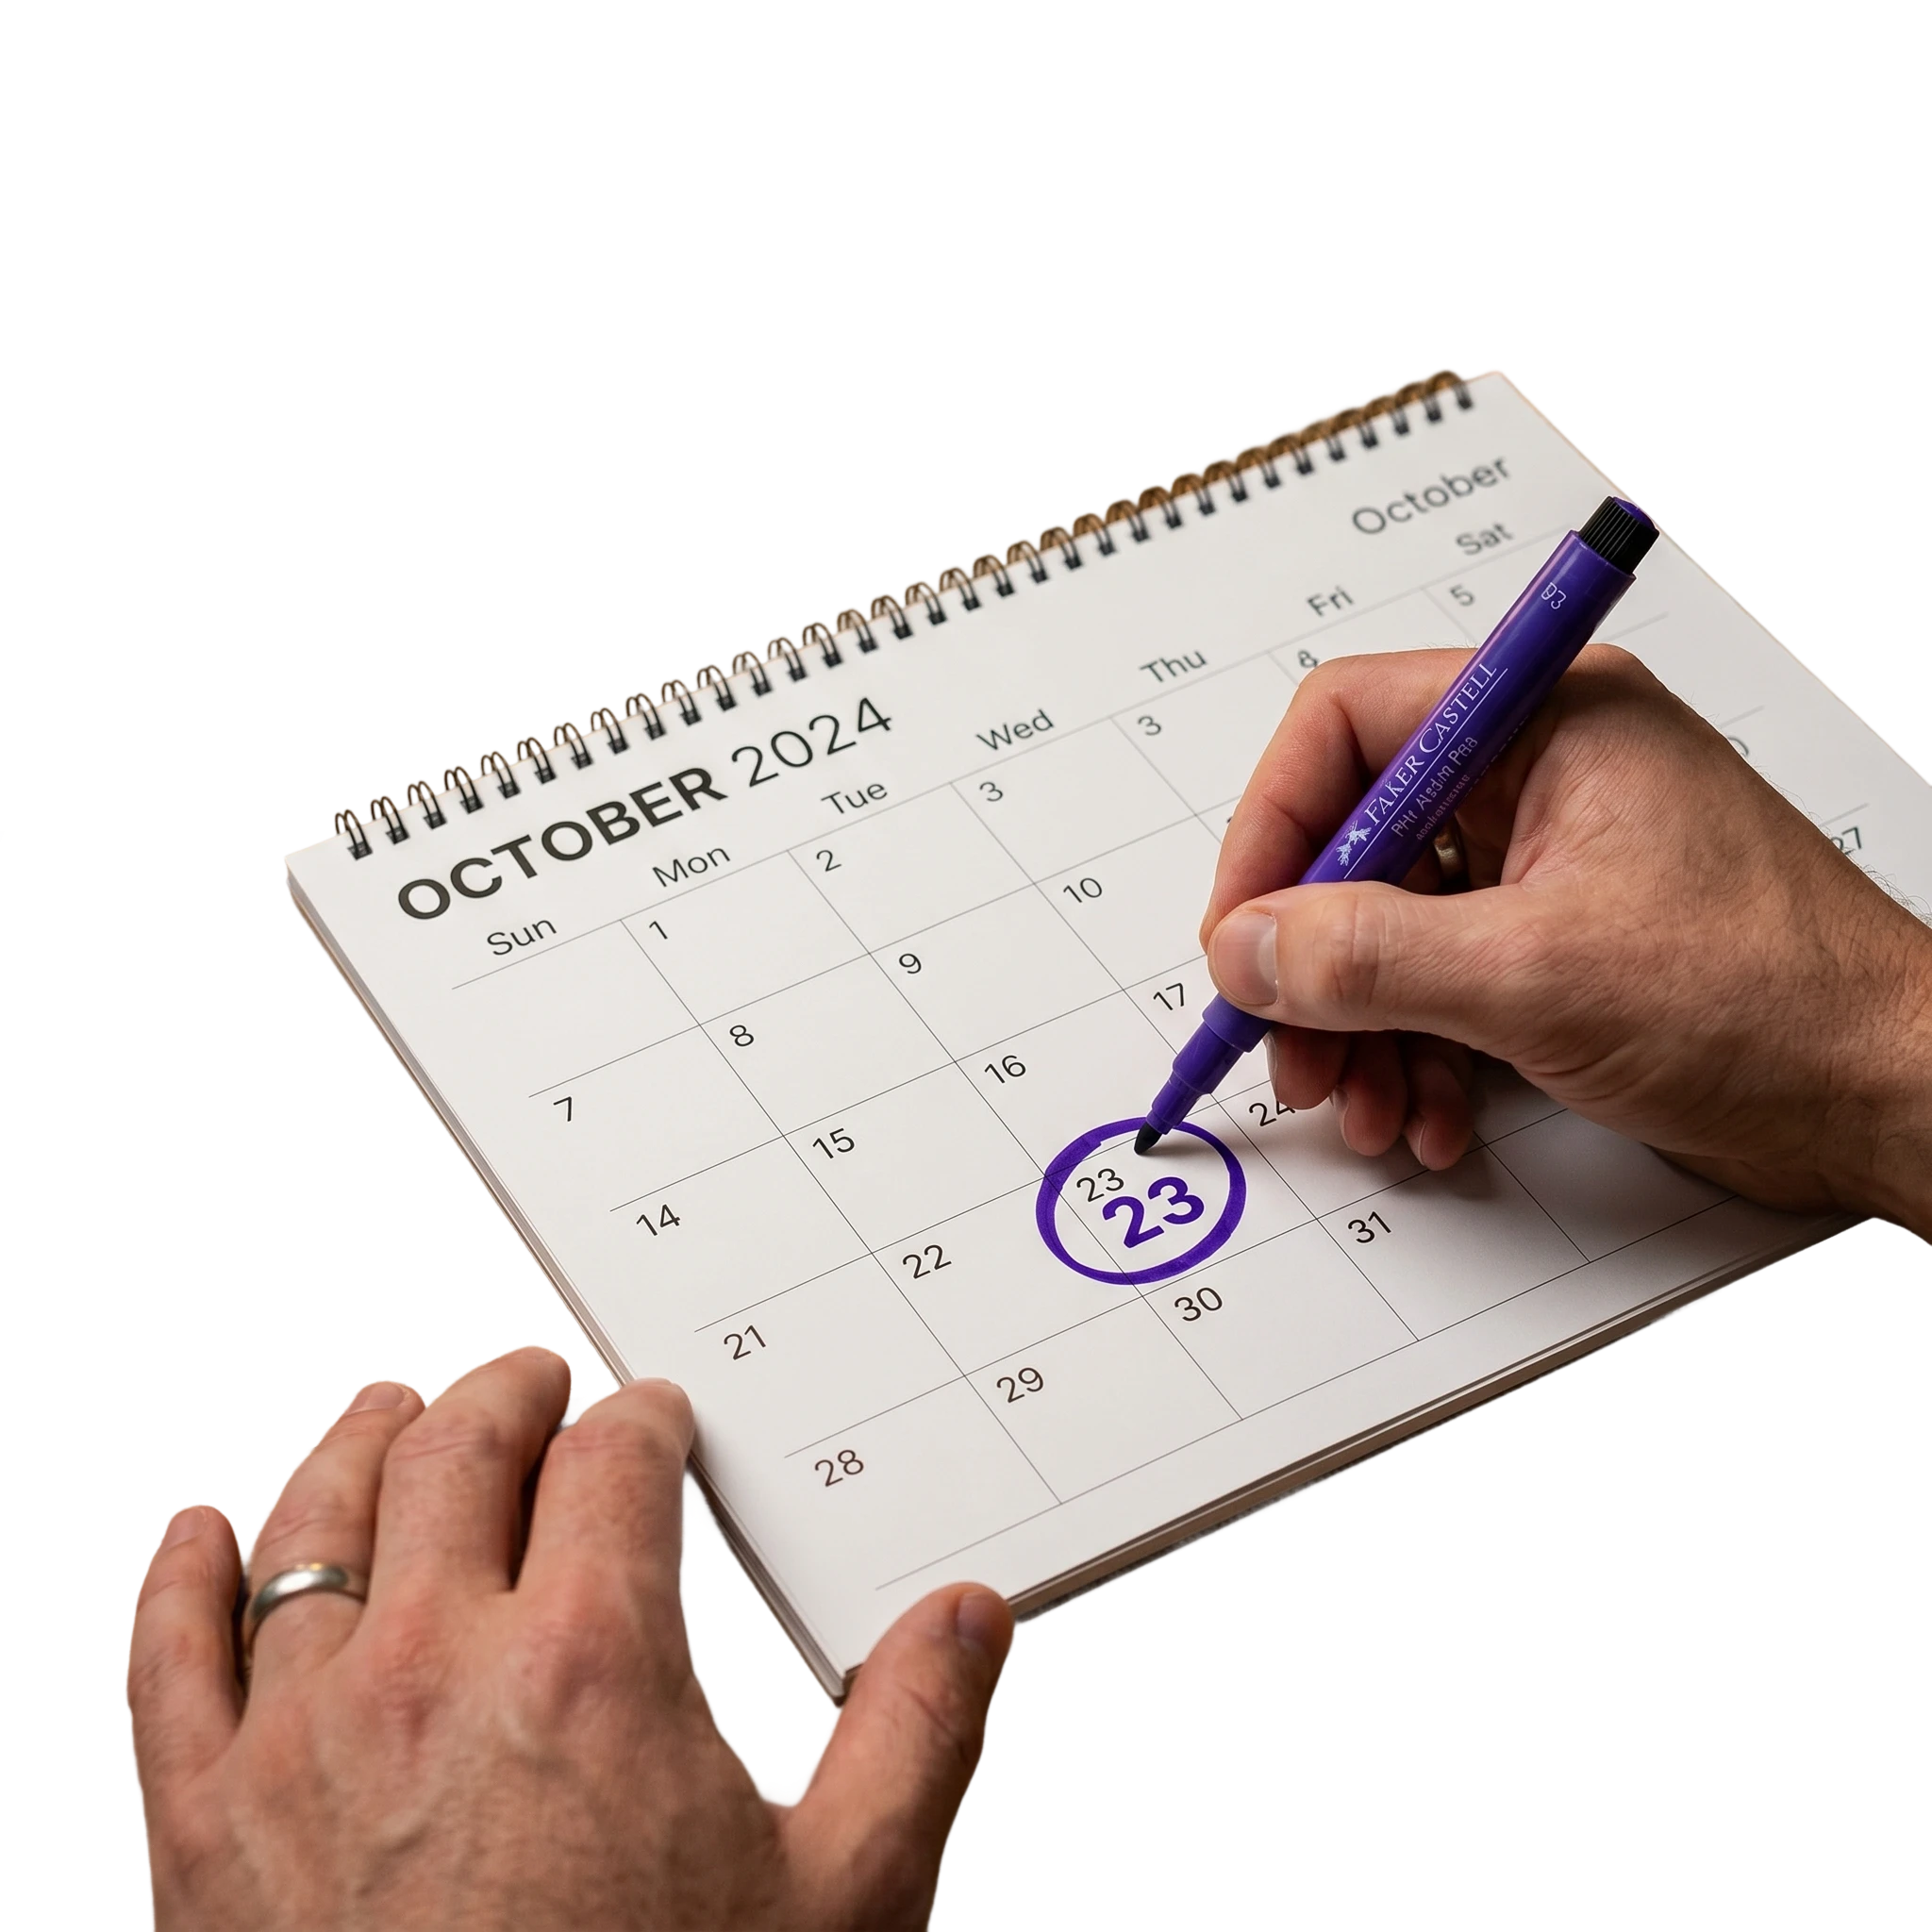
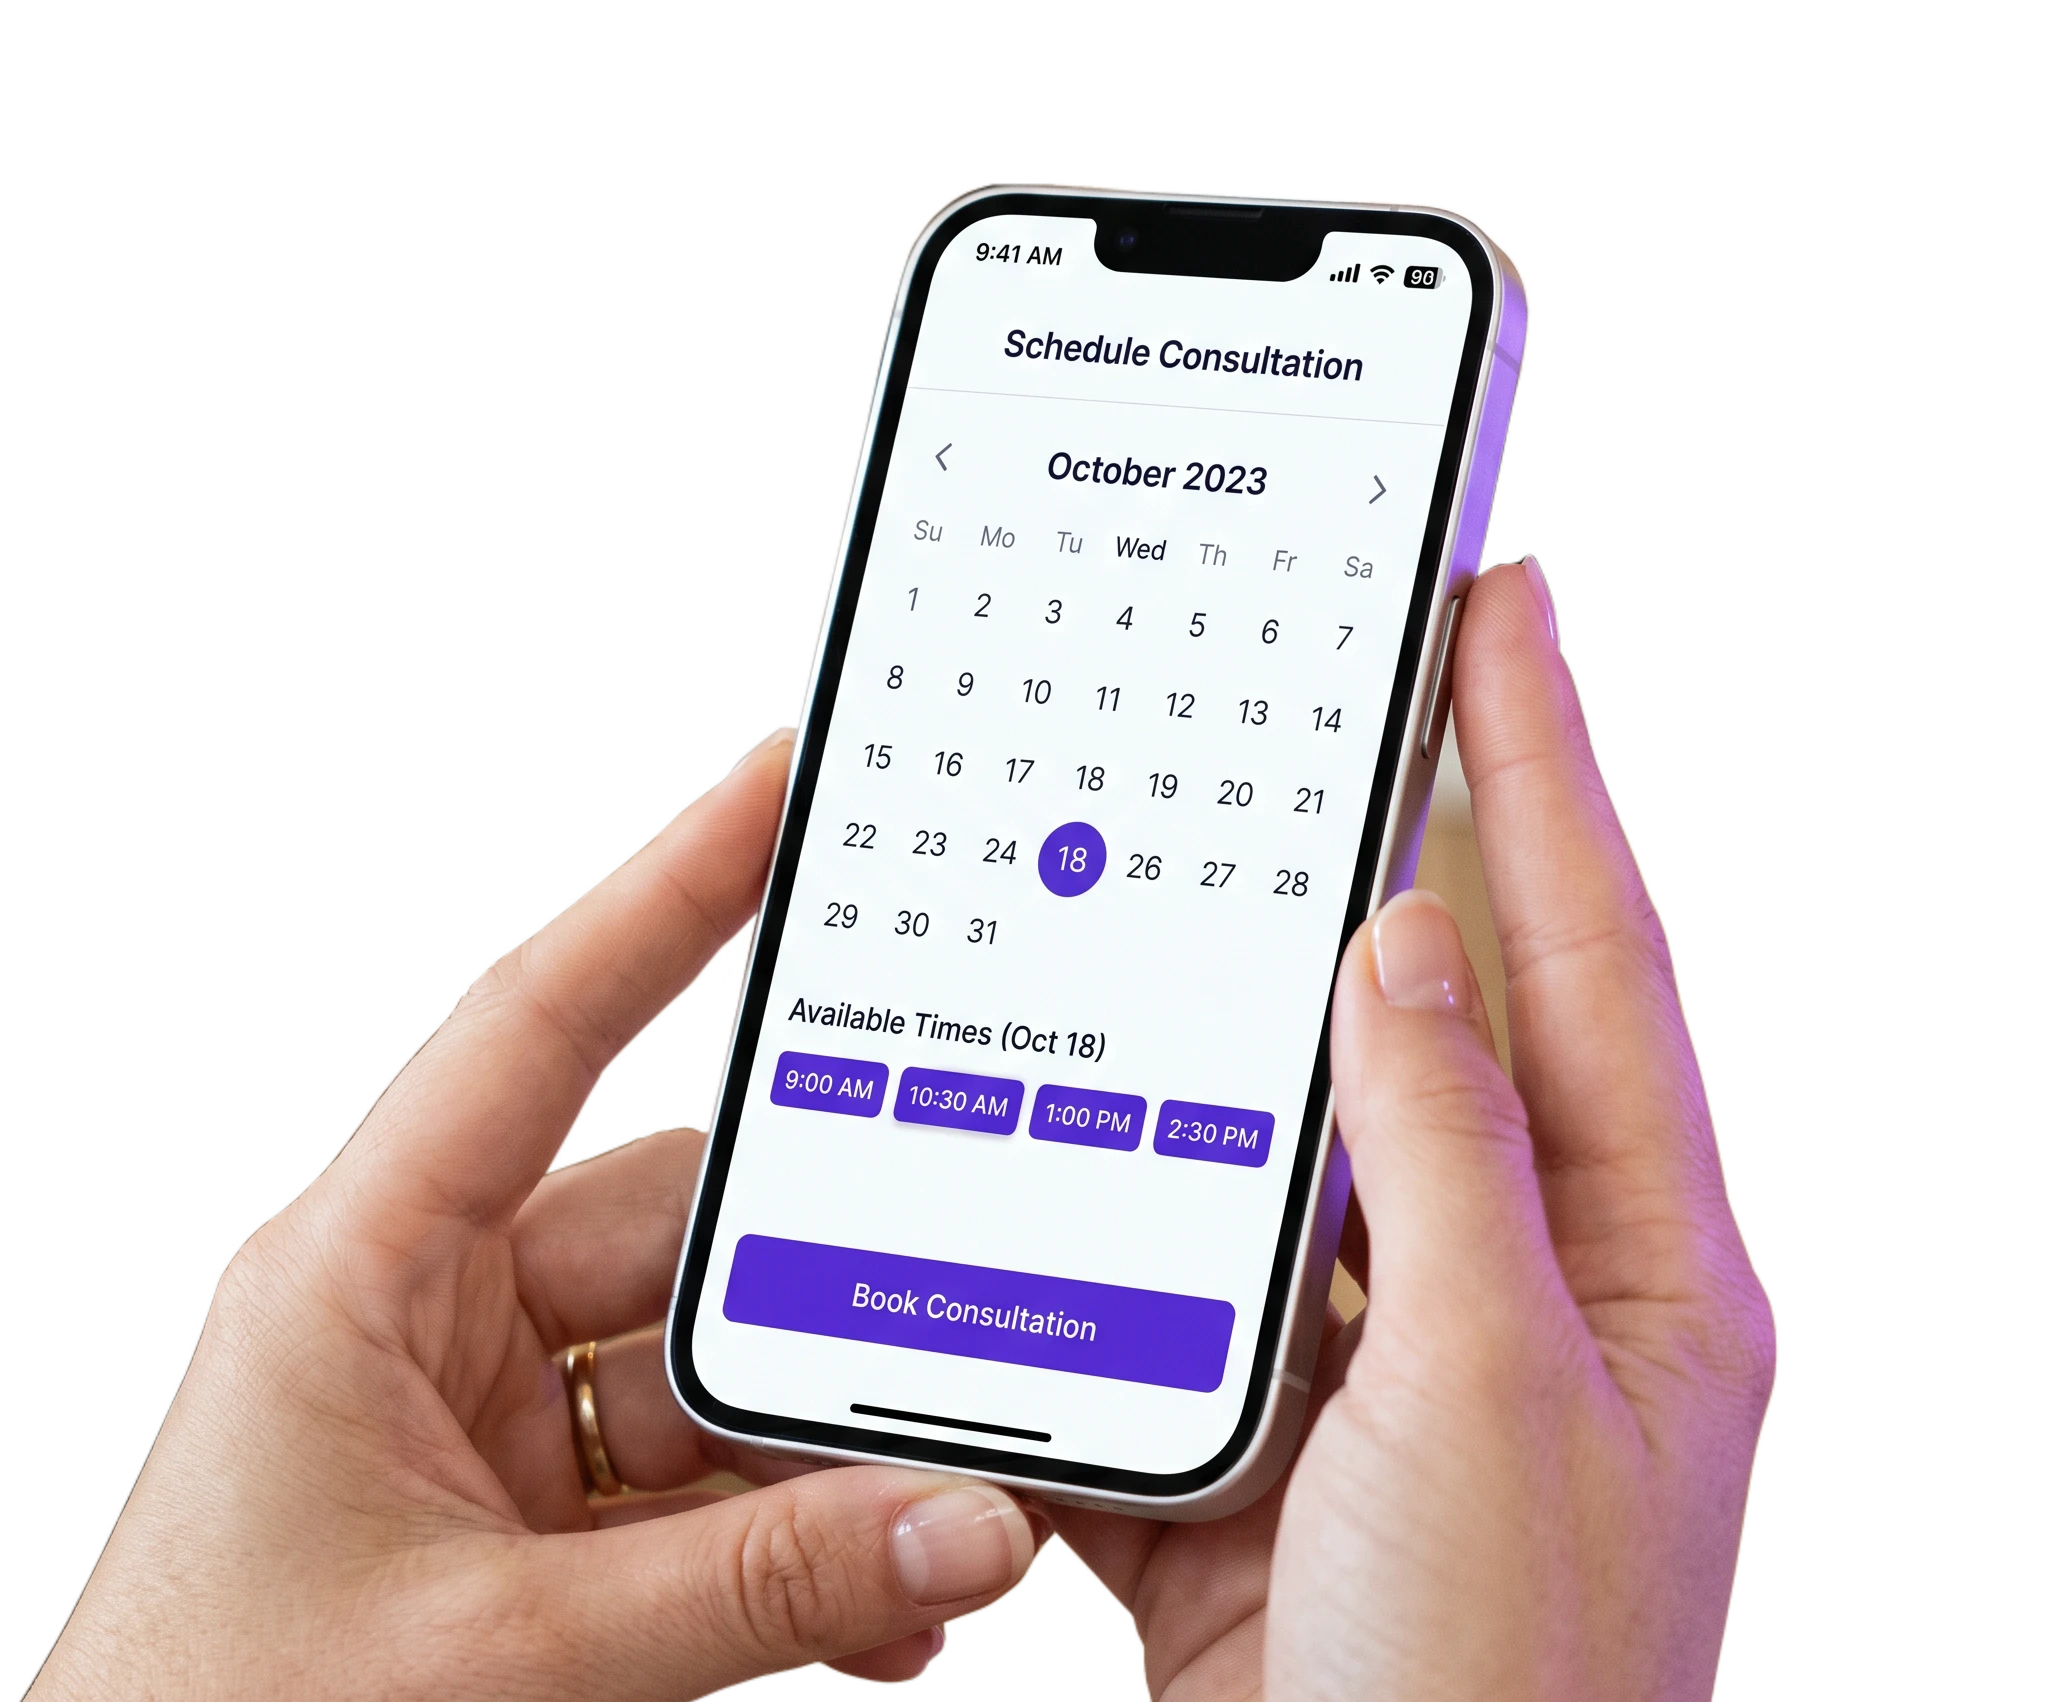
update image and content

diff --git a/src/lib/products.ts b/src/lib/products.ts
@@ -45,7 +45,7 @@ export interface ProductDetail {
 export const products: ProductDetail[] = [
   {
     slug: "direct-carrier-billing",
-    name: "Direct Carrier Billing",
+    name: "Digital Carrier Billing",
     shortName: "DCB",
     eyebrow: "Carrier Billing",
     tagline: "Let users pay through their phone bill.",
@@ -108,15 +108,19 @@ export const products: ProductDetail[] = [
   },
   {
     slug: "digital-payments",
-    name: "Digital Payments — Pay-In & Pay-Out",
+    name: "Digital Payment Solutions",
     shortName: "Digital Payments",
     eyebrow: "Pay-In & Pay-Out",
-    tagline: "Accept payments and send payouts globally.",
+    tagline: "Modern pay-in and payout infrastructure for growing businesses.",
     description:
-      "Accept payments and send payouts globally with a single API. Airpay supports multiple payment methods and local rails, helping businesses scale faster and expand into new markets seamlessly.",
+      "Accept payments and manage payouts seamlessly through a unified platform supporting QRIS, virtual accounts, e-wallets, cards, bank transfers, and local payment rails.",
     illustration: "/images/photos/image_payment.webp",
     icon: Wallet,
-    highlights: ["Multiple payment methods", "Pay-in & Pay-out", "Local rails"],
+    highlights: [
+      "Multi-Channel Payments",
+      "Pay-In & Pay-Out",
+      "Fast & Secure Settlement",
+    ],
     features: [
       {
         icon: Wallet,

diff --git a/src/components/HeroSlider.tsx b/src/components/HeroSlider.tsx
@@ -33,7 +33,7 @@ const slides: Slide[] = [
   {
     kind: "legacy",
     title: "Powering Global Digital Payments with One Integration",
-    body: "Airpay is a global digital payments platform that enables merchants to accept payments through Direct Carrier Billing and multiple payment methods worldwide with a single integration.",
+    body: "Airpay is a global digital payments platform that enables merchants to accept payments through Digital Carrier Billing and multiple payment methods worldwide with a single integration.",
     image: "/images/photos/image_hero.webp",
     buttonText: "Get Started",
   },
@@ -246,7 +246,7 @@ function DCBSlide() {
       <div className="absolute inset-y-0 right-0 z-0 hidden w-[55%] sm:block">
         <Image
           src="/images/photos/image_slide_2.webp"
-          alt="Direct Carrier Billing"
+          alt="Digital Carrier Billing"
           fill
           priority
           className="object-cover object-right drop-shadow-[0_18px_40px_rgba(80,60,180,0.25)]"
@@ -260,7 +260,7 @@ function DCBSlide() {
         </span>
 
         <h2 className="mt-4 font-heading text-[26px] font-extrabold leading-[1.05] tracking-tight text-black sm:mt-5 sm:text-[44px] lg:text-[56px]">
-          Direct Carrier Billing
+          Digital Carrier Billing
           <br />
           made{" "}
           <span className="bg-gradient-to-r from-[#FF6FB5] to-[#FF8AA9] bg-clip-text text-transparent">
@@ -269,7 +269,7 @@ function DCBSlide() {
         </h2>
 
         <p className="mt-3 max-w-[480px] text-[13px] leading-relaxed text-[#2b2f38] sm:mt-5 sm:text-[15px] lg:text-[16px]">
-          Enable mobile payments through Direct Carrier Billing. Reach more
+          Enable mobile payments through Digital Carrier Billing. Reach more
           users, increase conversions, and grow your revenue across emerging
           markets.
         </p>
@@ -386,13 +386,13 @@ function AggregatorSlide() {
   return (
     <div className="absolute inset-0">
       {/* ── Background photo — full right side, behind cards ── */}
-      <div className="absolute inset-y-0 right-0 z-0 hidden w-[55%] sm:block">
+      <div className="absolute inset-y-0 right-0 z-0 hidden w-[60%] sm:block">
         <Image
           src="/images/photos/image_slide_3.webp"
           alt="Digital Payments"
           fill
           priority
-          className="object-cover object-right drop-shadow-[0_18px_40px_rgba(80,60,180,0.25)]"
+          className="object-contain object-right drop-shadow-[0_18px_40px_rgba(80,60,180,0.25)]"
         />
       </div>
 

diff --git a/src/components/ProductsCarousel.tsx b/src/components/ProductsCarousel.tsx
@@ -16,10 +16,10 @@ interface Product {
 
 const products: Product[] = [
   {
-    name: "Direct Carrier Billing (DCB)",
+    name: "Digital Carrier Billing (DCB)",
     description:
       "Enable users to pay using their mobile balance. No card, no bank account needed.",
-    illustration: "/images/illustration/dcb_illustration.webp",
+    illustration: "/images/photos/image_card_dcb.webp",
     bullets: [
       "Higher conversion",
       "Reach unbanked users",
@@ -32,14 +32,14 @@ const products: Product[] = [
     name: "Digital Payments",
     description:
       "Accept payments through multiple methods and local rails with a single integration.",
-    illustration: "/images/illustration/payment_illustration.webp",
+    illustration: "/images/photos/image_card_payment.webp",
     bullets: [
       "100+ payment channels",
       "Global & local coverage",
       "Smart routing & higher success rate",
     ],
     href: "/products/digital-payment",
-    accent: "pink",
+    accent: "purple",
   },
 ];
 

diff --git a/src/components/NewsCTA.tsx b/src/components/NewsCTA.tsx
@@ -129,14 +129,14 @@ export function NewsCTA() {
               <FlowColumn
                 accent="purple"
                 headerIcon={RadioTower}
-                title="Direct Carrier Billing (DCB)"
+                title="Digital Carrier Billing (DCB)"
                 subtitle="Let users pay using their mobile balance."
                 steps={dcbSteps}
               />
             </ScrollReveal>
             <ScrollReveal delay={120}>
               <FlowColumn
-                accent="pink"
+                accent="purple"
                 headerIcon={CreditCard}
                 title="Digital Payment"
                 subtitle="Accept payments via multiple methods and channels."
@@ -199,7 +199,7 @@ export function NewsCTA() {
           {/* Bottom illustration — enlarged & pulled up */}
           <div className="relative mt-4 h-[260px] w-full overflow-hidden rounded-[24px] sm:mt-6 sm:h-[300px] sm:rounded-[28px] lg:h-[340px] lg:rounded-[32px]">
             <Image
-              src="/images/photos/payment-photo.webp"
+              src="/images/photos/image_scan.webp"
               alt="Airpay infrastructure"
               width={640}
               height={640}

diff --git a/src/app/contact/page.tsx b/src/app/contact/page.tsx
@@ -295,12 +295,12 @@ export default function ContactPage() {
                   </span>
                 </a>
               </div>
-              <div className="relative h-[280px] w-full sm:h-[360px] lg:h-[420px]">
+              <div className="relative h-[320px] w-full sm:h-[420px] lg:h-[520px]">
                 <Image
                   src="/images/photos/image_calendar.webp"
                   alt="Schedule a consultation"
                   fill
-                  className="object-cover"
+                  className="object-contain object-bottom"
                   sizes="(min-width: 1024px) 40vw, 100vw"
                 />
               </div>

diff --git a/src/components/MobileMenu.tsx b/src/components/MobileMenu.tsx
@@ -23,7 +23,7 @@ const items: MobileNavItem[] = [
     label: "Products",
     items: [
       {
-        label: "Direct Carrier Billing (DCB)",
+        label: "Digital Carrier Billing (DCB)",
         href: "/products/direct-carrier-billing",
       },
       {
@@ -48,7 +48,7 @@ const items: MobileNavItem[] = [
     label: "Developers",
     items: [
       {
-        label: "API for Direct Carrier Billing (DCB)",
+        label: "API for Digital Carrier Billing (DCB)",
         href: "/products/direct-carrier-billing",
       },
       { label: "API for Digital Payment", href: "/products/digital-payments" },

diff --git a/src/components/Nav.tsx b/src/components/Nav.tsx
@@ -46,7 +46,7 @@ const productsMega: MegaConfig = {
   items: [
     {
       icon: Radio,
-      title: "Direct Carrier Billing (DCB)",
+      title: "Digital Carrier Billing (DCB)",
       description: "Let users pay via their phone bill",
       href: "/products/direct-carrier-billing",
     },
@@ -88,7 +88,7 @@ const developersMega: MegaConfig = {
   items: [
     {
       icon: Code2,
-      title: "API for Direct Carrier Billing (DCB)",
+      title: "API for Digital Carrier Billing (DCB)",
       description: "Integrate telco billing in one call",
       href: "/products/direct-carrier-billing",
     },

diff --git a/src/app/about/page.tsx b/src/app/about/page.tsx
@@ -83,7 +83,7 @@ export default function AboutPage() {
                 seamless transactions across both local and international
                 markets. With core solutions in{" "}
                 <strong className="font-bold text-[#8169FF]">
-                  Direct Carrier Billing (DCB)
+                  Digital Carrier Billing (DCB)
                 </strong>{" "}
                 and{" "}
                 <strong className="font-bold text-[#8169FF]">

diff --git a/src/components/AirpayForBusiness.tsx b/src/components/AirpayForBusiness.tsx
@@ -160,7 +160,7 @@ function PaymentFlowIllustration() {
         </div>
 
         <div className="mt-3 space-y-1.5">
-          <PaymentRow label="Direct Carrier Billing" brand="DCB" />
+          <PaymentRow label="Digital Carrier Billing" brand="DCB" />
           <PaymentRow label="BCA Virtual Account" highlighted brand="BCA" />
           <PaymentRow label="GoPay E-Wallet" brand="GoPay" />
           <PaymentRow label="QRIS" expandable />

diff --git a/src/components/Footer.tsx b/src/components/Footer.tsx
@@ -5,7 +5,7 @@ const footerColumns: { title: string; links: string[] }[] = [
   {
     title: "Solutions",
     links: [
-      "Direct Carrier Billing (DCB)",
+      "Digital Carrier Billing (DCB)",
       "Digital Payments (Pay-In & Pay-Out)",
       "Billing Infrastructure",
       "EDC Payment Solutions",